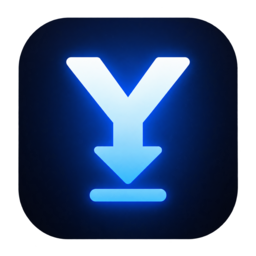
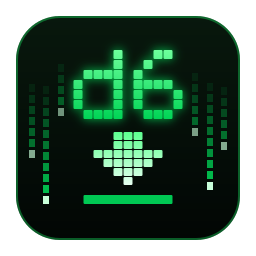
Eigenes App-Symbol im Matrix-Stil statt des blauen Y
Zwei selbst gezeichnete SVGs (groß und 16er Raster), PNGs per tools/render-icons.sh,
eigenes Tray-Symbol, Symbole in sieben Größen bei Installation und Deinstallation.

diff --git a/tests/D6Downloader.Tests/AppIconTests.cs b/tests/D6Downloader.Tests/AppIconTests.cs
@@ -1,0 +1,77 @@
+using System;
+using System.Buffers.Binary;
+using System.IO;
+using System.Linq;
+using System.Text.Json;
+using Xunit;
+
+namespace D6Downloader.Tests;
+
+/// <summary>Die eingecheckten Symbole (siehe tools/render-icons.sh) haben die Größen, die ihr Platz erwartet.</summary>
+public class AppIconTests
+{
+    private static readonly string Root = FindRoot();
+
+    private static string FindRoot()
+    {
+        for (var dir = new DirectoryInfo(AppContext.BaseDirectory); dir is not null; dir = dir.Parent)
+            if (File.Exists(Path.Combine(dir.FullName, "d6Downloader.sln"))) return dir.FullName;
+        throw new DirectoryNotFoundException("d6Downloader.sln nicht gefunden.");
+    }
+
+    /// <summary>Breite und Höhe aus dem IHDR-Block, dem ersten Block jeder PNG-Datei.</summary>
+    private static (int Width, int Height) PngSize(string relative)
+    {
+        byte[] data = File.ReadAllBytes(Path.Combine(Root, relative));
+        Assert.True(data.Length >= 24, relative);
+        Assert.Equal(new byte[] { 0x89, (byte)'P', (byte)'N', (byte)'G', 0x0D, 0x0A, 0x1A, 0x0A }, data[..8]);
+        Assert.Equal("IHDR"u8.ToArray(), data[12..16]);
+        return (BinaryPrimitives.ReadInt32BigEndian(data.AsSpan(16)), BinaryPrimitives.ReadInt32BigEndian(data.AsSpan(20)));
+    }
+
+    [Theory]
+    [InlineData("manifest.json")]
+    [InlineData("manifest.firefox.json")]
+    public void Extension_icons_match_their_manifest_sizes(string manifest)
+    {
+        using var doc = JsonDocument.Parse(File.ReadAllText(Path.Combine(Root, "extension", manifest)));
+        var root = doc.RootElement;
+        var icons = root.GetProperty("icons").EnumerateObject()
+            .Concat(root.GetProperty("action").GetProperty("default_icon").EnumerateObject())
+            .ToList();
+        Assert.NotEmpty(icons);
+        foreach (var icon in icons)
+        {
+            int size = int.Parse(icon.Name);
+            Assert.Equal((size, size), PngSize(Path.Combine("extension", icon.Value.GetString()!)));
+        }
+    }
+
+    [Theory]
+    [InlineData(16)]
+    [InlineData(24)]
+    [InlineData(32)]
+    [InlineData(48)]
+    [InlineData(64)]
+    [InlineData(128)]
+    [InlineData(256)]
+    public void Hicolor_icons_have_the_size_of_their_folder(int size) =>
+        Assert.Equal((size, size), PngSize($"assets/icons/hicolor/{size}x{size}/apps/d6downloader.png"));
+
+    [Theory]
+    [InlineData("assets/d6downloader-256.png", 256)]
+    [InlineData("src/D6Downloader/Assets/icon.png", 256)]
+    [InlineData("src/D6Downloader/Assets/tray.png", 64)]
+    public void Program_icons_have_the_expected_size(string path, int size) => Assert.Equal((size, size), PngSize(path));
+
+    [Theory]
+    [InlineData("assets/d6downloader.svg")]
+    [InlineData("assets/d6downloader-small.svg")]
+    public void Icon_sources_use_shapes_only(string path)
+    {
+        string svg = File.ReadAllText(Path.Combine(Root, path));
+        Assert.DoesNotContain("<text", svg, StringComparison.OrdinalIgnoreCase);
+        Assert.DoesNotContain("font-family", svg, StringComparison.OrdinalIgnoreCase);
+        Assert.DoesNotContain("<image", svg, StringComparison.OrdinalIgnoreCase);
+    }
+}

diff --git a/src/D6Downloader/AppController.cs b/src/D6Downloader/AppController.cs
@@ -110,7 +110,7 @@ public sealed class AppController : IDisposable
         menu.Items.Add(exit);
         _tray = new TrayIcon
         {
-            Icon = new WindowIcon(AssetLoader.Open(new Uri("avares://d6downloader/Assets/icon.png"))),
+            Icon = new WindowIcon(AssetLoader.Open(new Uri("avares://d6downloader/Assets/tray.png"))),
             ToolTipText = "d6Downloader",
             Menu = menu,
         };

diff --git a/DOKUMENTATION.md b/DOKUMENTATION.md
@@ -29,7 +29,8 @@ Pakete von nuget.org, dafür ist Internet nötig. `install.sh` kopiert alles in 
 im Startmenü an. Es prüft vorher die Prüfsummen und überschreibt nichts, was nicht von d6Downloader stammt.
 
 **Aktualisieren:** d6Downloader beenden, im Projektordner mit `git pull` den neuen Stand holen, dann `publish.sh` und
-`install.sh` noch einmal ausführen. Einstellungen und Downloads bleiben.
+`install.sh` noch einmal ausführen. Einstellungen und Downloads bleiben. Die Browser-Erweiterung danach im Browser neu laden
+(auf der Erweiterungsseite „Neu laden“), sonst behält sie den alten Stand samt Symbol.
 
 ## 2. Starten
 
@@ -207,7 +208,7 @@ Die Erweiterung entfernt man im Browser selbst.
 | Beschädigte Dateien, zur Rettung beiseitegelegt | gleicher Ordner, Endung `.bad` |
 | Programm und Erweiterung | `~/.local/lib/d6downloader/` |
 | Startbefehl (Verknüpfung) | `~/.local/bin/d6downloader` |
-| Startmenü-Eintrag und Symbol | `~/.local/share/applications/d6downloader.desktop`, `~/.local/share/icons/hicolor/256x256/apps/d6downloader.png` |
+| Startmenü-Eintrag und Symbol | `~/.local/share/applications/d6downloader.desktop`, `~/.local/share/icons/hicolor/<Größe>/apps/d6downloader.png` (16, 24, 32, 48, 64, 128 und 256 Pixel) |
 | Autostart | `~/.config/autostart/d6downloader.desktop` |
 | Browser-Verbindung | `d6downloader.host.json` in `~/.config/<Browser>/NativeMessagingHosts/` bzw. `~/.mozilla/native-messaging-hosts/` |
 | Zwischenspeicher des Programms | `~/.net/d6downloader/` |

diff --git a/CHANGELOG.md b/CHANGELOG.md
@@ -2,6 +2,10 @@
 
 ## d6Downloader 0.2.0 (in Arbeit, noch nicht veröffentlicht)
 
+### Geändert
+
+- Neues eigenes App-Symbol im Hacker-/Matrix-Stil („d6“ mit Download-Pfeil) statt des blauen „Y“: Fenster, Tray, Startmenü (jetzt in 7 Größen) und Browser-Erweiterung. Die Erweiterung im Browser einmal neu laden, damit sie das neue Symbol zeigt.
+
 ### Neu
 
 - Unterhäkchen „Stattdessen endgültig löschen (nicht rückgängig zu machen)“ unter „Archive nach dem Entpacken in den Papierkorb verschieben“ (ab Werk aus, braucht kein `gio`): Die Archivteile werden nur gelöscht, wenn das Entpacken vollständig geklappt hat und alle Teile unverändert sind, sonst bleiben alle liegen. Andere Dateien werden nie gelöscht.

diff --git a/README.md b/README.md
@@ -117,7 +117,7 @@ RAR-Testdateien stammen aus libarchive, siehe
 ### Fertige Programmdatei
 
 `tools/publish.sh` legt sie unter `dist/d6downloader-<Version>-linux-x64/` ab: eine Datei `d6downloader`, die ohne
-installiertes .NET läuft, daneben `Extension/`, `Licenses/`, `DOKUMENTATION.md`, `d6downloader.png`, `SHA256SUMS` und
+installiertes .NET läuft, daneben `Extension/`, `Licenses/`, `DOKUMENTATION.md`, `d6downloader.png`, `icons/`, `SHA256SUMS` und
 die Skripte `install.sh` und `uninstall.sh`. Installiert wird nach `~/.local/lib/d6downloader` mit der Verknüpfung
 `~/.local/bin/d6downloader`.
 

diff --git a/NOTICE.md b/NOTICE.md
@@ -1,3 +1,5 @@
 d6Downloader basiert auf YDownloader von Yusa Özbay (github.com/yusa1905/YDownloader), MIT-Lizenz.
 
 Symbole: Fluent System Icons, (c) Microsoft Corporation, MIT-Lizenz. Oberfläche: Avalonia UI, MIT-Lizenz.
+
+App-Symbol: eigene Gestaltung.
